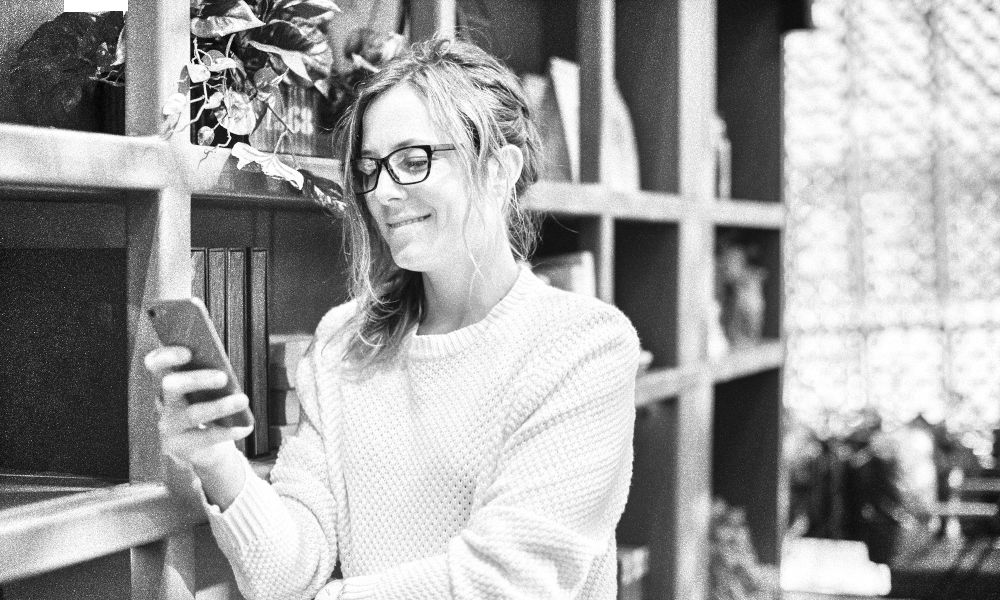
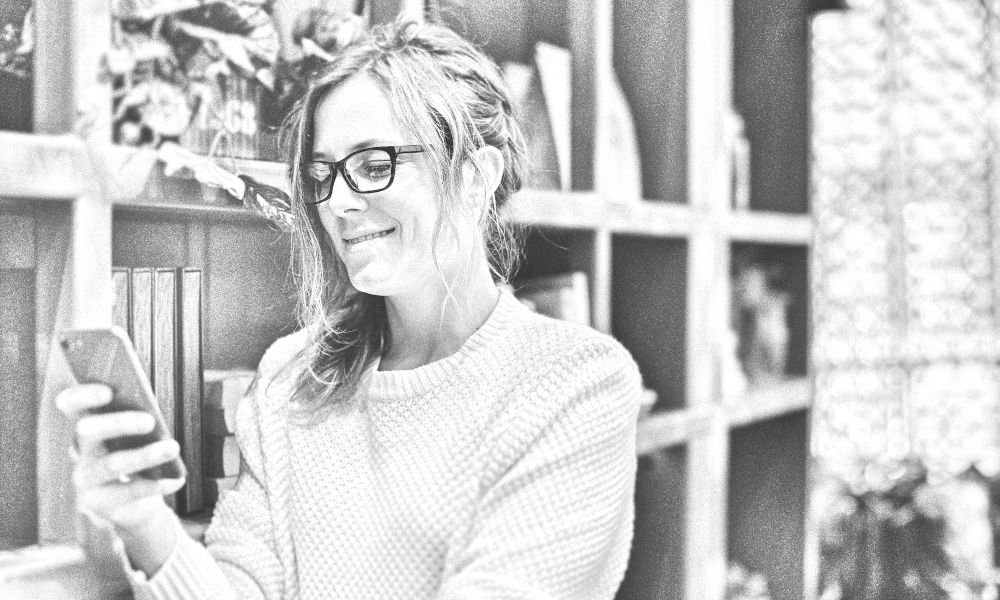
update values section in landing page

diff --git a/components/values.js b/components/values.js
@@ -4,9 +4,9 @@ import PropTypes from 'prop-types';
 import { Grid } from '@material-ui/core';
 import Grey from '@material-ui/core/colors/grey';
 import img1 from '../images/values/28x.jpg';
-import img2 from '../images/values/604126.jpg';
-import img3 from '../images/values/398931.jpg';
-import img4 from '../images/values/651370.jpg';
+import img2 from '../images/values/18x.jpg';
+import img3 from '../images/values/25x.jpg';
+import img4 from '../images/values/604126.jpg';
 
 const styles = () => ({
   root: {
@@ -19,7 +19,7 @@ const styles = () => ({
   },
   subtitle: {
     lineHeight: 1,
-    marginBottom: 10,
+    marginBottom: 20,
   },
   text: {
     padding: 40,

diff --git a/components/stack.js b/components/stack.js
@@ -4,7 +4,6 @@ import PropTypes from 'prop-types';
 import Link from 'next/link';
 import Tooltip from '@material-ui/core/Tooltip';
 import classnames from 'classnames';
-import Typography from '@material-ui/core/Typography';
 import LogoRails from '../images/stack/logo-rails.svg';
 import LogoPostgres from '../images/stack/logo-postgresql.svg';
 import LogoHighcharts from '../images/stack/logo-highcharts.svg';
@@ -23,7 +22,7 @@ const styles = () => ({
   },
   stackTitle: {
     maxWidth: 1000,
-    margin: '0 auto',
+    margin: '0 auto 20px',
   },
   stackText: {
     maxWidth: 1000,
